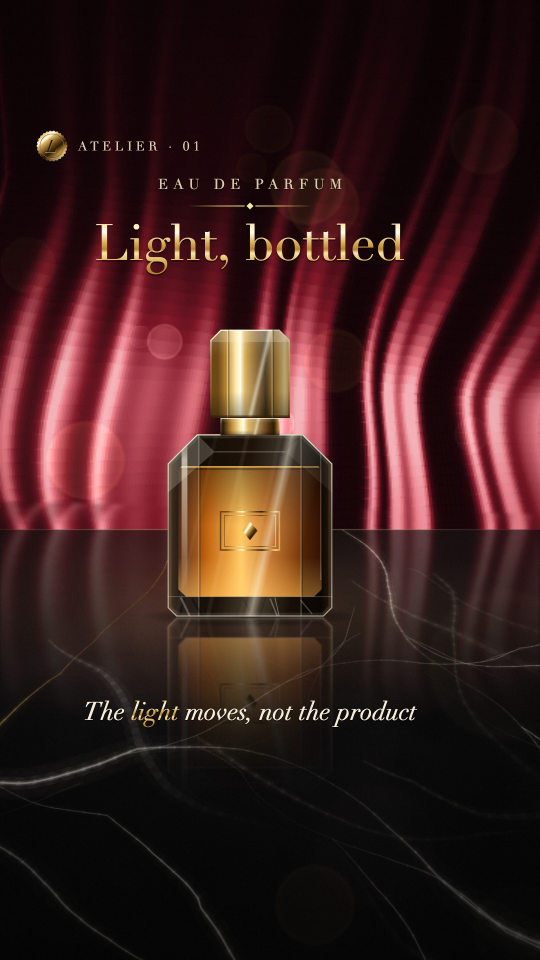
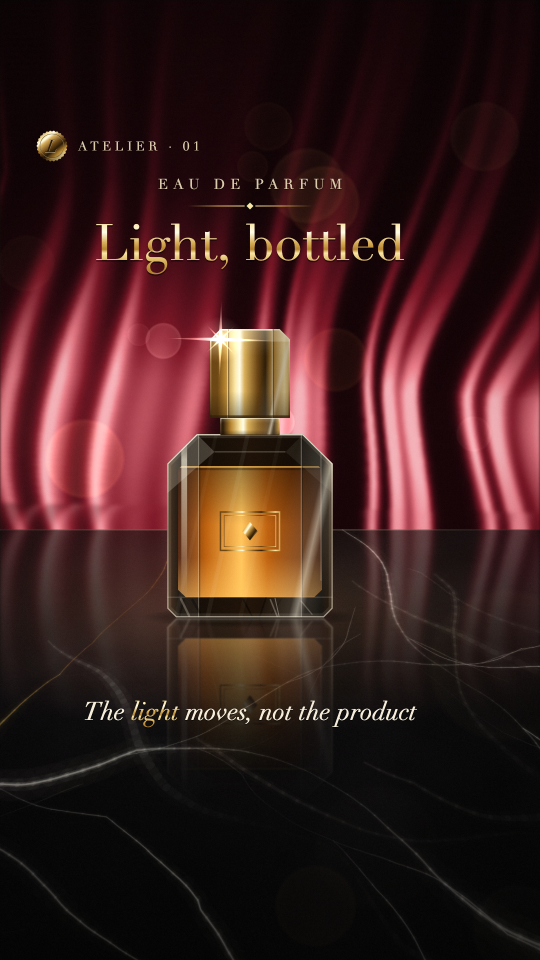
luxe: smooth satin (160-row mesh, blurred upscale), refresh sample and gallery

diff --git a/plugins/animate-visual-motion/skills/animate-visual-motion/styles/luxe/demo/index.html b/plugins/animate-visual-motion/skills/animate-visual-motion/styles/luxe/demo/index.html
@@ -860,7 +860,7 @@ function lxSilkTone(c) {
 //    fall ([brightness at the start, ..., at the end]: two or more values along the cloth), shadow (alpha of a soft shadow under it, for cloth lying on the slab),
 //    soft (1 = crisp, 2 = default, 3–4 = out of focus: the cloth is drawn at 1/soft size and scaled up), a, nu (columns; default one per ~5 px of width), nv
 function lxSilk(spine, o = {}) {
-  const lut = lxSilkTone(o.color), key = o.key ?? 'silk', R = RNG('lxsilk', key), NV = o.nv ?? 48, NU = o.nu ?? Math.round(clamp((Array.isArray(o.w) ? Math.max(...o.w) : typeof o.w === 'number' ? o.w : 600) / 5.5, 90, 250)), folds = o.folds ?? 5, depth = o.depth ?? 1, z = lxZ();
+  const lut = lxSilkTone(o.color), key = o.key ?? 'silk', R = RNG('lxsilk', key), NV = o.nv ?? 160, NU = o.nu ?? Math.round(clamp((Array.isArray(o.w) ? Math.max(...o.w) : typeof o.w === 'number' ? o.w : 600) / 5.5, 90, 250)), folds = o.folds ?? 5, depth = o.depth ?? 1, z = lxZ();
   const S = lxSpine(spine, NV), wf = typeof o.w === 'function' ? o.w : Array.isArray(o.w) ? (v) => lxArr(o.w, v) : () => o.w ?? 400;
   const k = [0, 1, 2, 3, 4, 5].map(() => R.r(0, TAU)), sheen = o.sheen ?? TT * 0.55, light = (o.light ?? -0.45) + 0.3 * Math.sin(sheen + k[5]), travel = o.travel ?? mod(TT * 0.17 + k[5], 1.5) - 0.25;
   const fall = o.fall ?? [1, 1];
@@ -911,7 +911,7 @@ function lxSilk(spine, o = {}) {
   } finally { ctx = main; }
   if (soft > 1) {
     const cv = LUX_CACHE['silkscratch' + (LUX_LITE ? 'L' : '')];
-    ctx.save(); ctx.setTransform(1, 0, 0, 1, 0, 0); ctx.imageSmoothingEnabled = true; ctx.imageSmoothingQuality = 'low'; if (o.a != null) ctx.globalAlpha = clamp(o.a);
+    ctx.save(); ctx.setTransform(1, 0, 0, 1, 0, 0); ctx.imageSmoothingEnabled = true; ctx.imageSmoothingQuality = 'high'; ctx.filter = 'blur(' + (soft * 0.9).toFixed(1) + 'px)'; if (o.a != null) ctx.globalAlpha = clamp(o.a);
     ctx.drawImage(cv, 0, 0, cv.width * soft, cv.height * soft); ctx.restore();
   }
 }

diff --git a/plugins/animate-visual-motion/skills/animate-visual-motion/styles/luxe/kit.js b/plugins/animate-visual-motion/skills/animate-visual-motion/styles/luxe/kit.js
@@ -274,7 +274,7 @@ function lxSilkTone(c) {
 //    fall ([brightness at the start, ..., at the end]: two or more values along the cloth), shadow (alpha of a soft shadow under it, for cloth lying on the slab),
 //    soft (1 = crisp, 2 = default, 3–4 = out of focus: the cloth is drawn at 1/soft size and scaled up), a, nu (columns; default one per ~5 px of width), nv
 function lxSilk(spine, o = {}) {
-  const lut = lxSilkTone(o.color), key = o.key ?? 'silk', R = RNG('lxsilk', key), NV = o.nv ?? 48, NU = o.nu ?? Math.round(clamp((Array.isArray(o.w) ? Math.max(...o.w) : typeof o.w === 'number' ? o.w : 600) / 5.5, 90, 250)), folds = o.folds ?? 5, depth = o.depth ?? 1, z = lxZ();
+  const lut = lxSilkTone(o.color), key = o.key ?? 'silk', R = RNG('lxsilk', key), NV = o.nv ?? 160, NU = o.nu ?? Math.round(clamp((Array.isArray(o.w) ? Math.max(...o.w) : typeof o.w === 'number' ? o.w : 600) / 5.5, 90, 250)), folds = o.folds ?? 5, depth = o.depth ?? 1, z = lxZ();
   const S = lxSpine(spine, NV), wf = typeof o.w === 'function' ? o.w : Array.isArray(o.w) ? (v) => lxArr(o.w, v) : () => o.w ?? 400;
   const k = [0, 1, 2, 3, 4, 5].map(() => R.r(0, TAU)), sheen = o.sheen ?? TT * 0.55, light = (o.light ?? -0.45) + 0.3 * Math.sin(sheen + k[5]), travel = o.travel ?? mod(TT * 0.17 + k[5], 1.5) - 0.25;
   const fall = o.fall ?? [1, 1];
@@ -325,7 +325,7 @@ function lxSilk(spine, o = {}) {
   } finally { ctx = main; }
   if (soft > 1) {
     const cv = LUX_CACHE['silkscratch' + (LUX_LITE ? 'L' : '')];
-    ctx.save(); ctx.setTransform(1, 0, 0, 1, 0, 0); ctx.imageSmoothingEnabled = true; ctx.imageSmoothingQuality = 'low'; if (o.a != null) ctx.globalAlpha = clamp(o.a);
+    ctx.save(); ctx.setTransform(1, 0, 0, 1, 0, 0); ctx.imageSmoothingEnabled = true; ctx.imageSmoothingQuality = 'high'; ctx.filter = 'blur(' + (soft * 0.9).toFixed(1) + 'px)'; if (o.a != null) ctx.globalAlpha = clamp(o.a);
     ctx.drawImage(cv, 0, 0, cv.width * soft, cv.height * soft); ctx.restore();
   }
 }

diff --git a/plugins/animate-visual-motion/skills/animate-visual-motion/styles/luxe/STYLE.md b/plugins/animate-visual-motion/skills/animate-visual-motion/styles/luxe/STYLE.md
@@ -102,7 +102,7 @@ Liquids (`LUX.liquid`): `amber` `#421603` `#bd610f` `#ffc45c`; `rose`; `clear`. 
 
 - Built from the genre's conventions (perfume and jewellery films), not measured against one reference film; products, names and the monogram are invented.
 - The lighting is a 2D fake. Gold bands follow the shape's bounding box, not its form; a strongly 3D object needs its parts drawn as separate outlines (as the ring and the bow do).
-- Satin folds only run along the cloth: no cross wrinkles, no folds that overlap each other, no knots. Up close a drape shows a faint row texture from the mesh; `soft` hides most of it.
+- Satin folds only run along the cloth: no cross wrinkles, no folds that overlap each other, no knots. The mesh is 160 rows deep and the scaled-up cloth gets a small blur, so a drape is smooth at full resolution; this costs render time (the satin is the slowest part of a frame).
 - Marble veins are a seeded random walk: now and then a slab puts a strong vein behind the caption or the product. Change `key` for another slab. `lxTable`'s perspective is row scaling, so far veins compress and near ones enlarge.
 - The mirror image is a flip with a blur (`ctx.filter`) and a gradient mask: no ripple, no real refraction. It costs a full-frame composite per call.
 - The stone is always a round brilliant seen from above; there is no side view and no other cut. `lxGoldConic` needs `createConicGradient` (current Chromium, Safari and Firefox); without it the ring falls back to a linear gradient.
